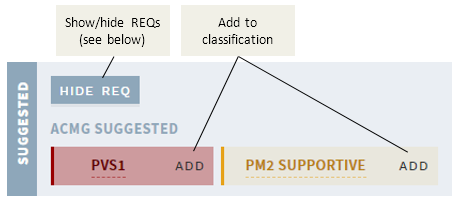
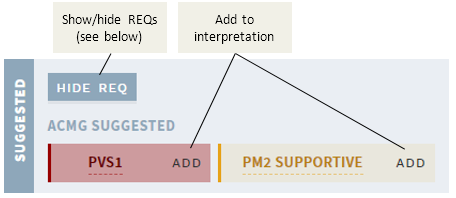
Docs changes.

diff --git a/docs/manual/classification-section.md b/docs/manual/classification-section.md
@@ -6,7 +6,7 @@ title: Classification section
 
 [[toc]]
 
-This section is where you review the information from other sections, summarise your findings, add ACMG criteria and set a classification. In other words, for variants with no pre-existing interpretation, you should review the other sections first. The reason it comes first is to make conclusions from any previous interpretations immediately visible when you open a variant.
+This section is where you review the information from other sections, summarise your findings, add ACMG criteria and set a classification. In other words, for variants with no pre-existing interpretation, you should review the other sections first. 
 
 ## Evaluation and Report: Summarising comments
 
@@ -36,9 +36,21 @@ Previously finalised variant interpretations have a limited period where they ar
 Changing the REPORT field only does not reset the validity period.
 :::
 
-## Review and add ACMG criteria 
+## Review and add ACMG criteria
 
-The ACMG criteria in *ella* are based on the official [ACMG-AMP 2015 guidelines](https://www.ncbi.nlm.nih.gov/pubmed/25741868). *ella* automatically [suggests relevant ACMG criteria](/concepts/acmg-rule-engine.html) based on a mapping of the annotation from the HTS bioinformatics pipeline, as well as any information you have added manually, to these adapted criteria. Suggested criteria are shown in the SUGGESTED card:
+The ACMG criteria in *ella* are based on the official [ACMG-AMP 2015 guidelines](https://www.ncbi.nlm.nih.gov/pubmed/25741868).
+
+Before setting a variant classification, you should add relevant ACMG criteria to the variant interpretation. There are two main ways of doing this, from [suggested criteria](/manual/classification-section.html#suggested-acmg-criteria-and-requirements-req) or [manually](/manual/classification-section.html#add-acmg-criteria-manually), explained below. A third option is available for a few selected criteria in the [Quick classification mode](/manual/quick-classification.md).
+
+Added criteria are shown in a list above the SUGGESTED card.
+
+::: warning NOTE
+Each ACMG criterion can be added only once for a particular variant, irrespective of chosen strenght.
+:::
+
+### Suggested ACMG criteria and requirements (REQ)
+
+*ella* automatically [suggests relevant ACMG criteria](/concepts/acmg-rule-engine.html) based on a mapping of the variant annotation, as well as any information you have added manually, to these criteria. Suggested criteria are shown in the SUGGESTED card:
 
 <div style="text-indent: 4%;"><img src="./img/ACMG_suggested.png"></div>
 
@@ -48,11 +60,13 @@ The specific requirements for each criterion are available by clicking on the la
   - Local adjustments: Notes specific to your own setup
   - Match: What triggered the suggestion (this is still in development and may be somewhat cryptic or not available)
 
+To add a suggested criterion to the interpretation, click `ADD` to the right. 
+
 ::: warning NOTE
-The suggestions may be somewhat imprecise and **you should always check that all requirements are satisfied** before clicking ADD. This adds the criterion to the classification, shown as a list above the SUGGESTED card.
+The suggestions may be somewhat imprecise and **you should always check that all requirements are satisfied** before clicking `ADD`.
 :::
 
-### REQ: requirements for ACMG criteria
+#### REQ: requirements for ACMG criteria
 
 Where possible, some of the ACMG criteria have been split into separate [“requirements” (REQs)](/concepts/acmg-rule-engine.html#req-requirements-for-acmg-criteria) in *ella*. Each of these REQs is a necessary component for the ACMG criteria they belongs to. *ella* displays these REQs for information, which can be used as hints for additional criteria that may be relevant for the current variant. 
 
@@ -60,13 +74,7 @@ REQs that have a match in the current variant are shown when you click the `SHOW
 
 <div style="text-indent: 4%;"><img src="./img/ACMG_REQ.png"></div>
 
-## Modifying the strength of added criteria
-
-To change the strength of a particular, added criterion, click either the `+` or `-` sign, for stronger or weaker evidence, respectively:
-
-<div style="text-indent: 4%;"><img src="./img/ACMG_change_strength.png"></div>
-
-## Add ACMG criterion manually
+### Add ACMG criteria manually
 
 To add an ACMG criterion that is not already suggested by *ella*, press the `ADD ACMG` button in the top banner:
 
@@ -75,6 +83,12 @@ To add an ACMG criterion that is not already suggested by *ella*, press the `ADD
 This brings up a side bar where you may modify strength, comment and add any ACMG criterion:
 
 <div style="text-indent: 4%;"><img src="./img/add_ACMG.png"></div>
+
+## Modifying the strength of added criteria
+
+To change the strength of a particular, added criterion, click either the `+` or `-` sign, for stronger or weaker evidence, respectively:
+
+<div style="text-indent: 4%;"><img src="./img/ACMG_change_strength.png"></div>
 
 ## Set variant class
 

diff --git a/docs/manual/quick-classification.md b/docs/manual/quick-classification.md
@@ -10,11 +10,13 @@ Instead of performing a full classification, you may instead choose the Quick cl
 
 <div style="text-indent: 4%;"><img src="./img/sidebar_modes_quick.png"></div>
 
-This feature is particularly well suited for workflows with large gene panels and many variants. The Quick classification view gives a summary of the most important information necessary for [marking variants](/manual/evidence-sections.html#mark-as-verified-technical-not-relevant) as `TECHNICAL` or `NOT RELEVANT`, or [classifying](/manual/classification-section.html#set-variant-class) as `CLASS U` or `CLASS 2`, and gives you buttons to perform those actions directly:
+This feature is particularly well suited for workflows with large gene panels and many variants. The Quick classification view gives a summary of the most important information necessary for [marking variants](/manual/evidence-sections.html#mark-as-verified-technical-not-relevant) as TECHNICAL (`T`) or NOT RELEVANT (`NR`), or [classifying](/manual/classification-section.html#set-variant-class) as CLASS U (`U`) or CLASS 2 (`2`), and gives you buttons to perform those actions directly:
 
 <div style="text-indent: 4%;"><img src="./img/quick_classification.png"></div>
 <br>
 
-Clicking one of these buttons moves the variant down to the respective section in the sidebar. If applicable, add a comment before moving to the next variant; this will be added to the comment field on the CLASSIFICATION page corresponding to the column header (e.g. ANALYSIS SPECIFIC).
+The `2` button is disabled until you have added at least one benign ACMG criterion; the most commonly used criteria `BS1` and `BS2` are available as quick buttons. 
+
+Clicking one of the `T`, `NR`, `U` or `2` buttons moves the variant down to the respective section in the sidebar. If applicable, add a comment before moving to the next variant; this will be reflected in the comment field on the CLASSIFICATION page corresponding to the column header (e.g. ANALYSIS SPECIFIC).
 
 When you are done, and ready to do a more thourough interpretation of any remaining variants, click the `FULL` button at the top of the variant list (see also [Evidence sections](/manual/evidence-sections.html) and [Classification section](/manual/classification-section.html)).

diff --git a/docs/manual/visual.md b/docs/manual/visual.md
@@ -38,3 +38,6 @@ Analysis tracks are specific to the analysis (depending on configuration). These
 - `VCF`: All variants called in the VCF file (HTS data only, within gene panel, no filtering)
 - `CNV`: Called CNVs (HTS data only)
 
+## Mark as TECHNICAL
+
+A button `T` is available in the side bar next to each variant for quickly marking technical variants. This works the same as in [Quick classification mode](/manual/quick-classification.md), where clicking the button moves the variant to the TECHNICAL VARIANTS section in the side bar. If applicable, add a comment before moving to the next variant; this will also be reflected in the ANALYSIS SPECIFIC comment field on the CLASSIFICATION page.
